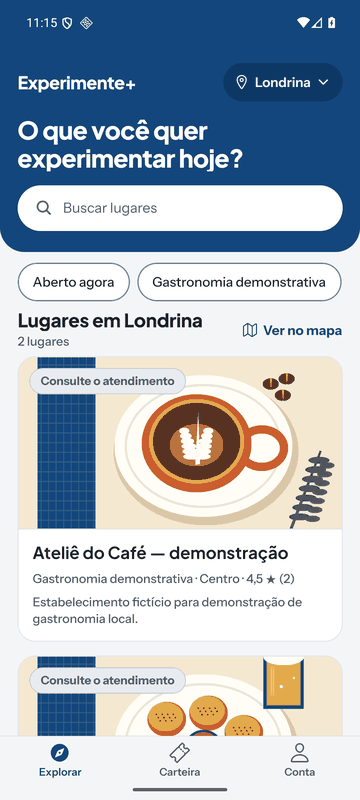
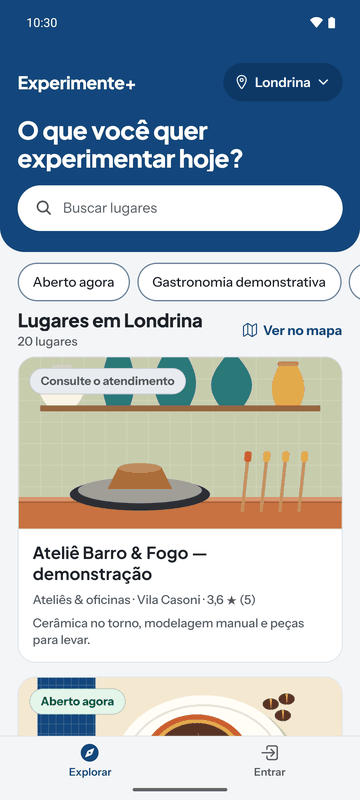
docs(app): describe the clustered map and the nine-city demo
The README still said the map was to be checked in three cities; the demo now
runs from Maringá to Bandeirantes. It explains how places cluster, label and
answer a tap, the way a screen reader reaches them, and why a software-GPU
emulator shows no labels or places. Explorar and the place page are captured
again with the richer demo, and the clustered map joins them. AGENTS.md
records the layer choice and the emulator GPU caveat.

Claude-Session: https://claude.ai/code/session_012WNMQpUrx7HjXDR5sjmsYY

diff --git a/README.md b/README.md
@@ -12,13 +12,14 @@ que também guarda o contrato OpenAPI. O guia de trabalho deste repositório, co
 código precisa respeitar, está em [`AGENTS.md`](AGENTS.md).
 
 <p align="center">
-  <img src="docs/screenshots/explorar.png" width="200" alt="Explorar: busca, filtros e lugares de Londrina" />
+  <img src="docs/screenshots/explorar.png" width="200" alt="Explorar: busca, filtros e os 20 lugares de Londrina" />
+  <img src="docs/screenshots/mapa.png" width="200" alt="Mapa de Londrina com os lugares agrupados por proximidade e os nomes que cabem" />
   <img src="docs/screenshots/lugar.png" width="200" alt="Página de um lugar com o benefício à venda" />
   <img src="docs/screenshots/compra.png" width="200" alt="Compra de um voucher, com datas e total" />
   <img src="docs/screenshots/carteira.png" width="200" alt="Carteira vazia, com o caminho para os benefícios" />
 </p>
 
-<p align="center"><sub>Emulador Android, homologação, dados fictícios de demonstração.</sub></p>
+<p align="center"><sub>Emulador Android, homologação, dados fictícios de demonstração: nove cidades, de Maringá a Bandeirantes.</sub></p>
 
 ## O que o app faz
 
@@ -195,7 +196,7 @@ src/
   wallet/         carteira, apresentação do benefício, comprovantes e histórico
   reviews/        avaliações, fotos e denúncias
   concierge/      assistente de descoberta ancorado no catálogo
-  maps/           renderizadores MapLibre e Google, pins e atribuição
+  maps/           renderizadores MapLibre e Google, lugares agrupados no mapa e atribuição
   media/          validação de imagens enviadas
   analytics/      eventos de descoberta
   components/     componentes compartilhados da direção visual A
@@ -271,21 +272,33 @@ O app carrega dois renderizadores e escolhe pela configuração: Google Maps (`e
 contrário. O MapLibre lê fontes `pmtiles://` diretamente; não adicione a biblioteca JavaScript
 `pmtiles`.
 
+No MapLibre os lugares são camadas do próprio mapa, não views sobrepostas: ficam recortados pela
+área do mapa e se agrupam quando se amontoam. Um círculo azul com um número reúne os lugares
+próximos, e tocá-lo aproxima até que se separem; um ponto é um lugar só, com o nome ao lado quando
+cabe sem cobrir outro (os primeiros resultados da busca têm prioridade), e tocá-lo abre o lugar.
+Lugares no mesmo endereço formam um único círculo que, tocado, lista os lugares daquele ponto. O
+leitor de tela não alcança o que o mapa desenha: o mapa se anuncia como "Mapa com N lugares" e,
+ativado, volta para a lista, que traz os mesmos lugares e filtros. O Google Maps continua com um
+marcador por ponto.
+
 Manter dois renderizadores custa tamanho de binário e uma segunda implementação. É uma escolha
 deliberada e revisitável: consolidar em um só, provavelmente MapLibre, elimina de vez a dependência
-de credencial. A validação visual em aparelhos reais ainda **não foi feita**: zoom 11 a 15 nas três
-cidades, acentos nos rótulos e a atribuição Protomaps/OpenStreetMap visível.
+de credencial. O basemap regional cobre de Maringá a Bandeirantes, as nove cidades da demonstração;
+o agrupamento, os rótulos e o toque foram conferidos no emulador Android em Londrina e Maringá. A
+validação em aparelhos reais ainda **não foi feita**: zoom 11 a 15 nas nove cidades, acentos nos
+rótulos e a atribuição Protomaps/OpenStreetMap visível, em Android e iOS.
 
 ## Solução de problemas
 
-| Sintoma                                                         | Causa e saída                                                                                                                                                      |
-| --------------------------------------------------------------- | ------------------------------------------------------------------------------------------------------------------------------------------------------------------ |
-| Mudei `app.json` (permissão, plugin, ícone) e nada mudou no app | `android/` não foi regenerado. Rode `npx expo prebuild -p android` (ou `--clean`) e compile de novo.                                                               |
-| Erro de Gradle ou do Metro logo no início                       | Node ou Java do sistema em vez dos do projeto. Rode com `mise exec --` e confira `node -v` (24) e `java -version` (21).                                            |
-| O dev client não encontra o Metro                               | Encaminhe a porta (`adb -s <serial> reverse tcp:8081 tcp:8081`, ou a porta escolhida) e reabra o app; confira se o Metro está de pé.                               |
-| A compilação foi para o aparelho errado                         | Com emulador e aparelho conectados, passe `--device <nome>` ao `pnpm android` e `-s <serial>` ao `adb`.                                                            |
-| O mapa abre sem ruas                                            | Falta `EXPO_PUBLIC_MAP_STYLE_URL`; sem ela o app usa os tiles de demonstração, que param no zoom 6. Reinicie o Metro com `--clear` depois de ajustar o `.env`.     |
-| Build de produção recusado com "Production build refused"       | A trava do `app.config.ts`: configure a URL da API de produção (https) e o estilo de mapa de produção no ambiente do EAS.                                          |
-| API local não responde ou mostra outra operação                 | No emulador o host é `http://10.0.2.2:<porta>`; no aparelho, o IP da máquina na rede. Como o hostname escolhe a operação, um IP cai na operação padrão do backend. |
-| Teste falha com "Failed to get NitroModules"                    | O teste importou `@/api/client` ou a sessão sem simular o MMKV. Simule `@/api/client` (ou `react-native-mmkv`) no próprio teste.                                   |
-| O emulador fecha sozinho                                        | Falta memória: ele precisa de alguns GB livres. Feche outros programas ou limite a RAM do AVD (`-memory 3072`).                                                    |
+| Sintoma                                                         | Causa e saída                                                                                                                                                        |
+| --------------------------------------------------------------- | -------------------------------------------------------------------------------------------------------------------------------------------------------------------- |
+| Mudei `app.json` (permissão, plugin, ícone) e nada mudou no app | `android/` não foi regenerado. Rode `npx expo prebuild -p android` (ou `--clean`) e compile de novo.                                                                 |
+| Erro de Gradle ou do Metro logo no início                       | Node ou Java do sistema em vez dos do projeto. Rode com `mise exec --` e confira `node -v` (24) e `java -version` (21).                                              |
+| O dev client não encontra o Metro                               | Encaminhe a porta (`adb -s <serial> reverse tcp:8081 tcp:8081`, ou a porta escolhida) e reabra o app; confira se o Metro está de pé.                                 |
+| A compilação foi para o aparelho errado                         | Com emulador e aparelho conectados, passe `--device <nome>` ao `pnpm android` e `-s <serial>` ao `adb`.                                                              |
+| O mapa abre sem ruas                                            | Falta `EXPO_PUBLIC_MAP_STYLE_URL`; sem ela o app usa os tiles de demonstração, que param no zoom 6. Reinicie o Metro com `--clear` depois de ajustar o `.env`.       |
+| No emulador o mapa não mostra nomes de rua nem os lugares       | A GPU por software (`-gpu swiftshader_indirect`) não desenha as camadas de símbolos do MapLibre: rótulos, pontos e agrupamentos somem. Inicie o AVD com `-gpu host`. |
+| Build de produção recusado com "Production build refused"       | A trava do `app.config.ts`: configure a URL da API de produção (https) e o estilo de mapa de produção no ambiente do EAS.                                            |
+| API local não responde ou mostra outra operação                 | No emulador o host é `http://10.0.2.2:<porta>`; no aparelho, o IP da máquina na rede. Como o hostname escolhe a operação, um IP cai na operação padrão do backend.   |
+| Teste falha com "Failed to get NitroModules"                    | O teste importou `@/api/client` ou a sessão sem simular o MMKV. Simule `@/api/client` (ou `react-native-mmkv`) no próprio teste.                                     |
+| O emulador fecha sozinho                                        | Falta memória: ele precisa de alguns GB livres. Feche outros programas ou limite a RAM do AVD (`-memory 3072`).                                                      |

diff --git a/AGENTS.md b/AGENTS.md
@@ -93,7 +93,7 @@ As variáveis `EXPO_PUBLIC_*` entram no bundle e não guardam segredos. Não ver
 
 `EXPO_PUBLIC_GOOGLE_MAPS_API_KEY` seleciona o renderizador Google; sem ela, o código usa MapLibre. Em homologação, defina no `.env` local `EXPO_PUBLIC_MAP_STYLE_URL=https://midia-experimente.mahina.fun/maps/norte-parana/style.json`: é a URL pública esperada, alias estável do basemap regional Protomaps servido do R2 próprio (caminho A da antiga ADR 0026 do backend). Sem a variável, permanece o fallback `demotiles.maplibre.org`, cujo tileset termina no zoom 6 e não fornece detalhe de rua para a câmera inicial no zoom 11. MapLibre Native lê fontes `pmtiles://` diretamente; não adicione a biblioteca JavaScript `pmtiles`. Preserve os dois renderizadores e valide a configuração nativa de cada provedor.
 
-A validação visual em Android e iOS reais ainda não foi feita e exige development build: zoom 11 a 15 nas três cidades, acentos nos rótulos e atribuição Protomaps/OpenStreetMap visível.
+No MapLibre os lugares são camadas de um `GeoJSONSource` com agrupamento nativo, não `Marker`: views de marcador no Android desenham fora do mapa. O leitor de tela chega aos lugares pela lista, para a qual o próprio mapa leva. Emulador com `-gpu swiftshader_indirect` não desenha camadas de símbolos (rótulos, pontos, agrupamentos); valide o mapa com `-gpu host`. A validação visual em Android e iOS reais ainda não foi feita e exige development build: zoom 11 a 15 nas nove cidades da demonstração (de Maringá a Bandeirantes), acentos nos rótulos e atribuição Protomaps/OpenStreetMap visível.
 
 `app.json` usa o identificador `br.com.experimentemais` e scheme `experimenteplus`. O README registra a identidade de distribuição como pendente de confirmação antes da primeira release; não a trate como decisão de loja já concluída.
 
